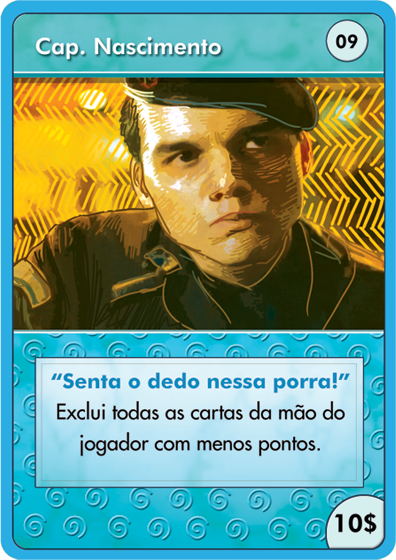
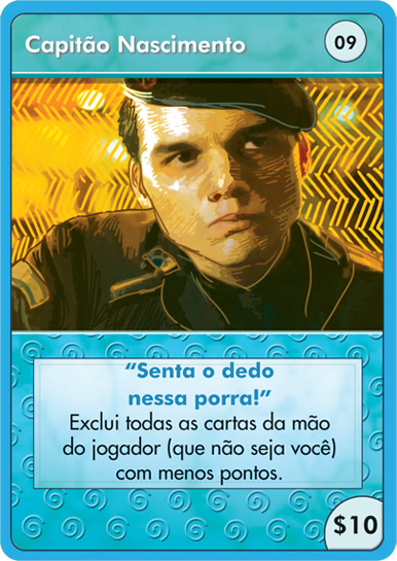
Alteradas img de 2 cartas e mostra jog atual

Changed region(s): [[0.0, 0.0, 1.0, 1.0], [0.2727, 0.4857, 0.3333, 0.5464], [0.6667, 0.3643, 0.697, 0.3946]]

diff --git a/bpt/static/estilo.less b/bpt/static/estilo.less
@@ -46,7 +46,8 @@ body {
 }
 header {
   margin: 0em;
-	height: 1.2em;
+	height: 1.0em;
+  font-size: 0.8em;
 }
 
 .centro {
@@ -293,7 +294,7 @@ li {
 
 .infos {
 	position: relative;
-	top: -0.5em;
+	top: -0.8em;
 	left: 18em;
 	height: 1.5em;
 	width: 20em;
@@ -509,6 +510,10 @@ li {
 		color: @branco;
 	}
 }
+.jogador_atual {
+  background-color: #aa0000;
+}
+
 .sub_jogador {
 	background-color: @branco;
 	border-radius: 10px;
@@ -519,6 +524,7 @@ li {
 	border-color: @fundo_jog;
 	padding: 0.5em;
 	height: 95%;
+  margin-top: -2em;
 }
 
 table.final {

diff --git a/bpt/jogo.py b/bpt/jogo.py
@@ -156,6 +156,10 @@ class SistemaPreJogo():
         jogs = [ jog.__dict__ for jog in jogo.ret_jogadores()]
         for j in jogs:
             j["tam_mao"] = len(j["mao"])
+            if j["nome"] == jogo.nome_jogador_atual:
+                j["atual"] = True
+            else:
+                j["atual"] = False
         return jogs
 
     def ret_todos_jogadores(self):
@@ -678,14 +682,14 @@ class Jogador():
         else:
             carta, iden = ret
 
-        custo = CUSTO_MINIMO_PARA_DESCARTE
+        valor = VALOR_MINIMO_PARA_DESCARTE
 
         # Aplica especial
-        dados = {"custo":custo}
+        dados = {"valor":valor}
         self.aplicar_especial("altera_valor_min_descarte", dados)
-        custo = dados["custo"]
+        valor = dados["valor"]
 
-        if carta.custo <= custo:
+        if carta.valor <= valor:
             return "ERRO: A carta deve valer mais do que 5!"
 
         self.mao.remove(iden)

diff --git a/bpt/views.py b/bpt/views.py
@@ -42,6 +42,13 @@ PREJOGO.ret_jogador("olegal").automatico = True
 PREJOGO.ret_jogador("legalzao").automatico = True
 PREJOGO.iniciar_jogo("a")
 
+j = PREJOGO.jogos["a"]
+j.jogadores["1"].mao.append(51)
+for i,c in j.baralho.items():
+    print(i,c.naipe, c.valor, c.nome)
+#j.jogadores["olegal"].mesa["fic"] = [1,2,3]
+#j.jogadores["olegal"].mesa["esp"] = [20,21,22]
+
 # PREPARACAO
 
 @forbidden_view_config(renderer='proibida.slim')
@@ -194,7 +201,8 @@ def criar_perfil(request):
         dbsession.merge(record)
         dbsession.flush()
         return {'sucesso': 'True'}
-    return {'form':form.render()}
+    appstruct = record_to_appstruct(record)
+    return {'form':form.render(appstruct=appstruct)}
 
 @view_config(route_name='ver_perfil', renderer='ver_perfil.slim')
 def ver_perfil(request):

diff --git a/bpt/efeitos.py b/bpt/efeitos.py
@@ -360,7 +360,7 @@ class PontosPorCartaFinal(Permanente, Efeito):
             num = 0
             for c in l:
                 # caso seja uma carta impar
-                if c.valor%2 == 1:
+                if dono.jogo.baralho.get(c).valor%2 == 1:
                     num += 1
             dados["pontos"] += int(carta.efeito_dados["quant"]) * num
 
@@ -403,7 +403,7 @@ class AlteraValorMinDescarte(Permanente, Efeito):
     @classmethod
     def executar(cls, dados, dono, carta):
         #dados["custo"] = int(carta.efeito_dados["quant"])
-        dados["custo"] = -1
+        dados["valor"] = -1
 
 class AlteraCustoCoringas(Permanente, Efeito):
     exp = "^PODER FIXO: Adiciona curingas sem ter necessidade de pagar$"

diff --git a/bpt/constantes.py b/bpt/constantes.py
@@ -23,4 +23,4 @@ MAX_CARTAS_MAO = 5
 DINHEIRO_INICIAL = 5
 NUM_CARTAS_INICIAIS = 2
 CUSTO_COMPRA_DESCARTE = 3
-CUSTO_MINIMO_PARA_DESCARTE = 5
+VALOR_MINIMO_PARA_DESCARTE = 5
